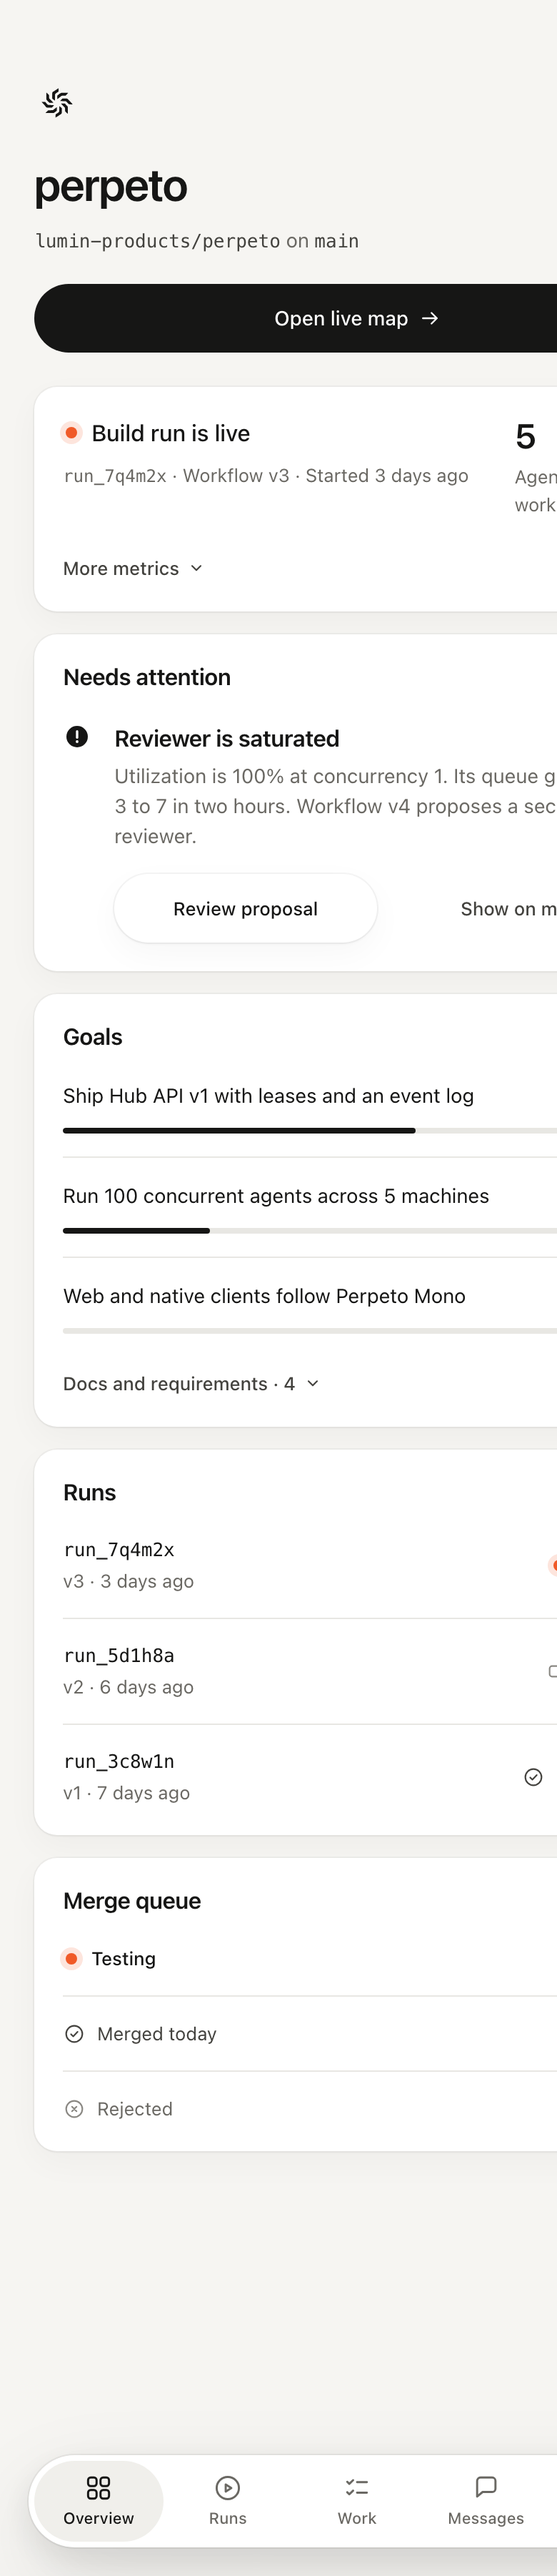
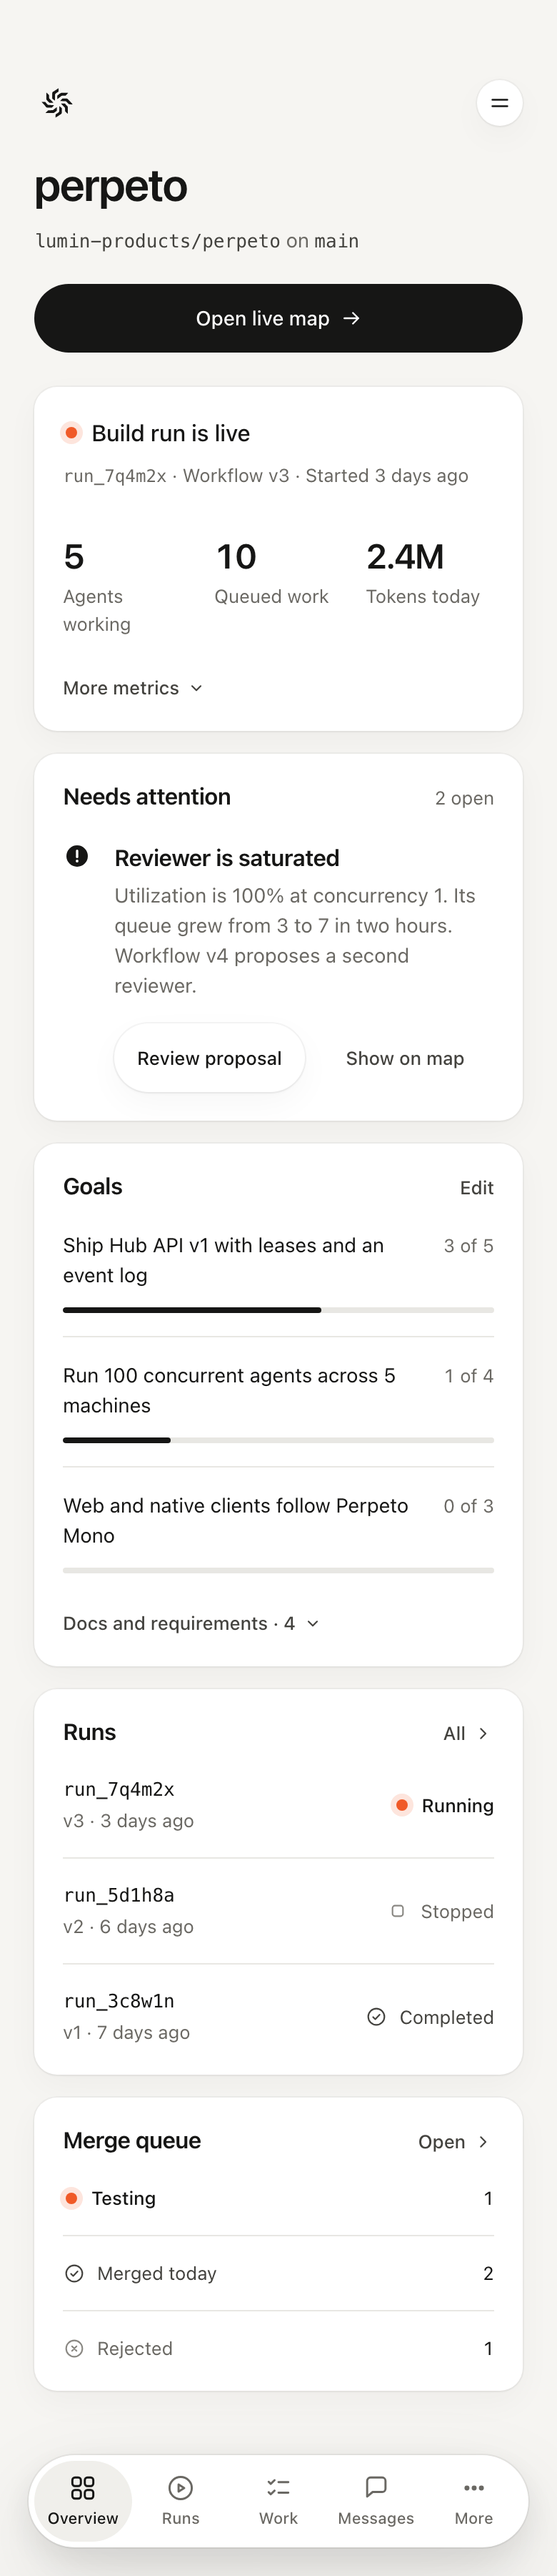
fix(design-tokens): keep mobile screenshot frames at 390 px
Headless Chrome will not open a window narrower than about 500 px, so
the fallback cropped the mobile mocks. In screenshot mode the mobile
frame and its tab bar now stay 390 px wide and pinned left.

diff --git a/packages/design-tokens/specimen.html b/packages/design-tokens/specimen.html
@@ -573,7 +573,9 @@ body:has(.screen:target) .page > * { visibility: hidden; }
 body:has(.screen:target) .page { padding: 0; max-width: none; }
 .screen:target { visibility: visible; position: fixed; inset: 0; width: 100vw; height: auto; max-height: none; min-height: 100vh; overflow: visible; border-radius: 0; box-shadow: none; z-index: 10; }
 .screen:target * { visibility: visible; }
-.screen-mobile:target .tabbar { position: fixed; left: 0; right: 0; bottom: var(--space-5); margin: 0 var(--space-5); }
+/* Headless Chrome keeps windows at least ~500 px wide, so mobile frames stay 390 px and pinned left. */
+.screen-mobile:target { width: 390px; right: auto; }
+.screen-mobile:target .tabbar { position: fixed; left: var(--space-5); bottom: var(--space-5); width: calc(390px - 2 * var(--space-5)); margin: 0; }
 
 @media (max-width: 900px) {
   .page { padding: var(--space-8) var(--page-padding-compact) var(--space-16); }

diff --git a/packages/design-tokens/src/specimen.template.html b/packages/design-tokens/src/specimen.template.html
@@ -427,7 +427,9 @@ body:has(.screen:target) .page > * { visibility: hidden; }
 body:has(.screen:target) .page { padding: 0; max-width: none; }
 .screen:target { visibility: visible; position: fixed; inset: 0; width: 100vw; height: auto; max-height: none; min-height: 100vh; overflow: visible; border-radius: 0; box-shadow: none; z-index: 10; }
 .screen:target * { visibility: visible; }
-.screen-mobile:target .tabbar { position: fixed; left: 0; right: 0; bottom: var(--space-5); margin: 0 var(--space-5); }
+/* Headless Chrome keeps windows at least ~500 px wide, so mobile frames stay 390 px and pinned left. */
+.screen-mobile:target { width: 390px; right: auto; }
+.screen-mobile:target .tabbar { position: fixed; left: var(--space-5); bottom: var(--space-5); width: calc(390px - 2 * var(--space-5)); margin: 0; }
 
 @media (max-width: 900px) {
   .page { padding: var(--space-8) var(--page-padding-compact) var(--space-16); }
